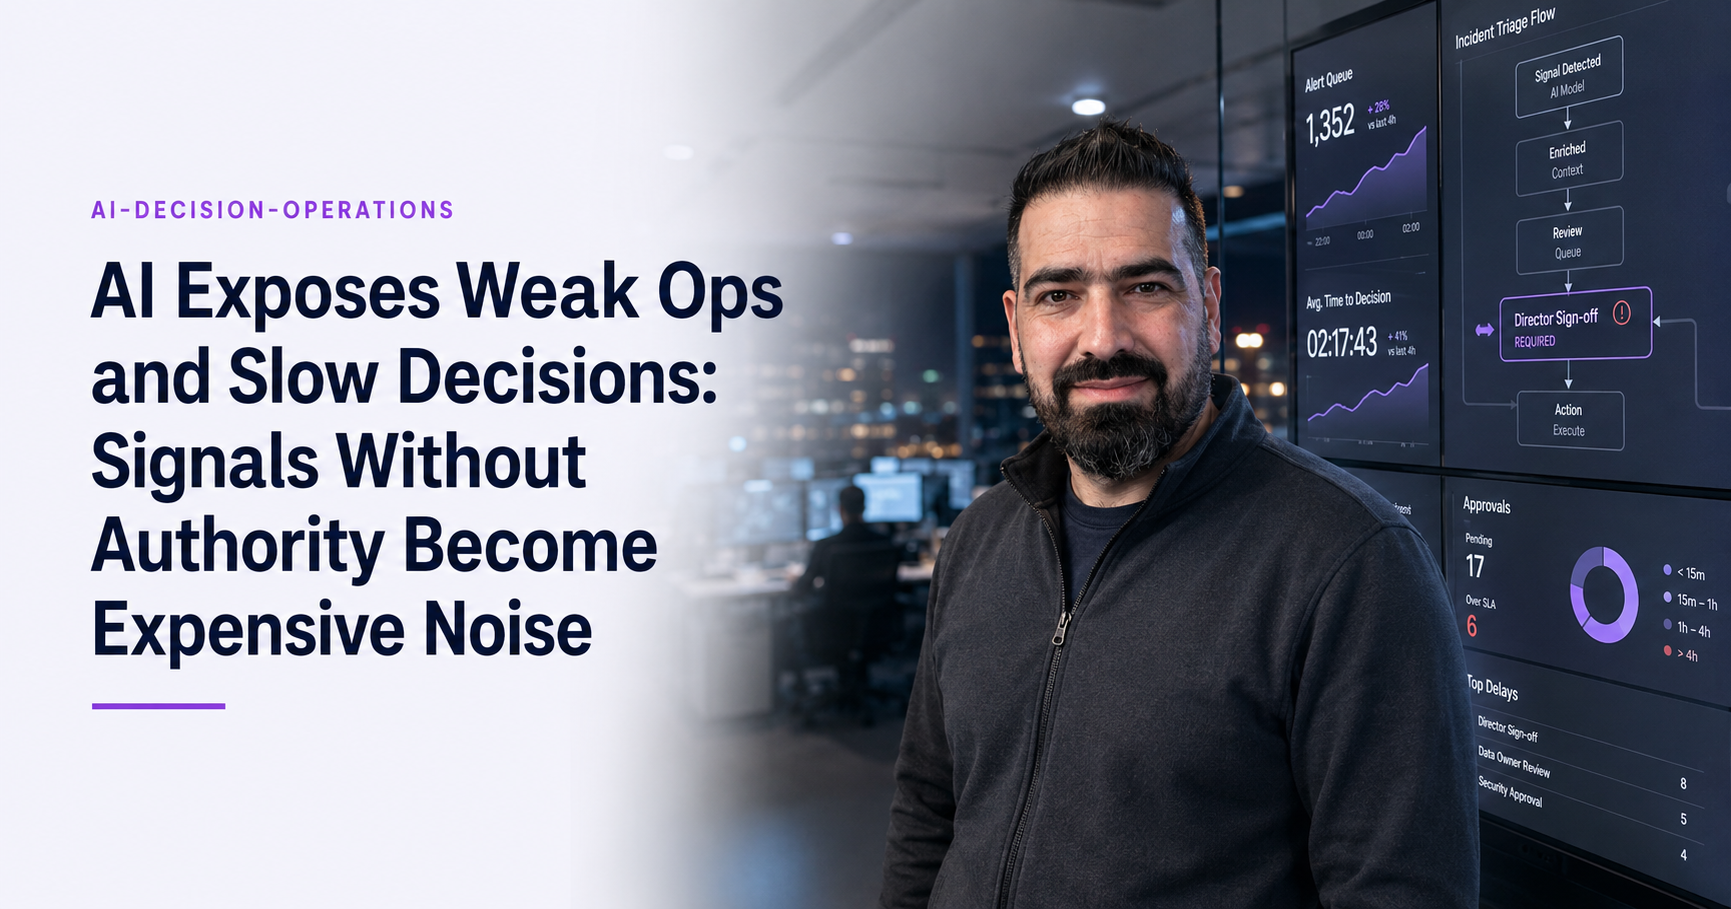
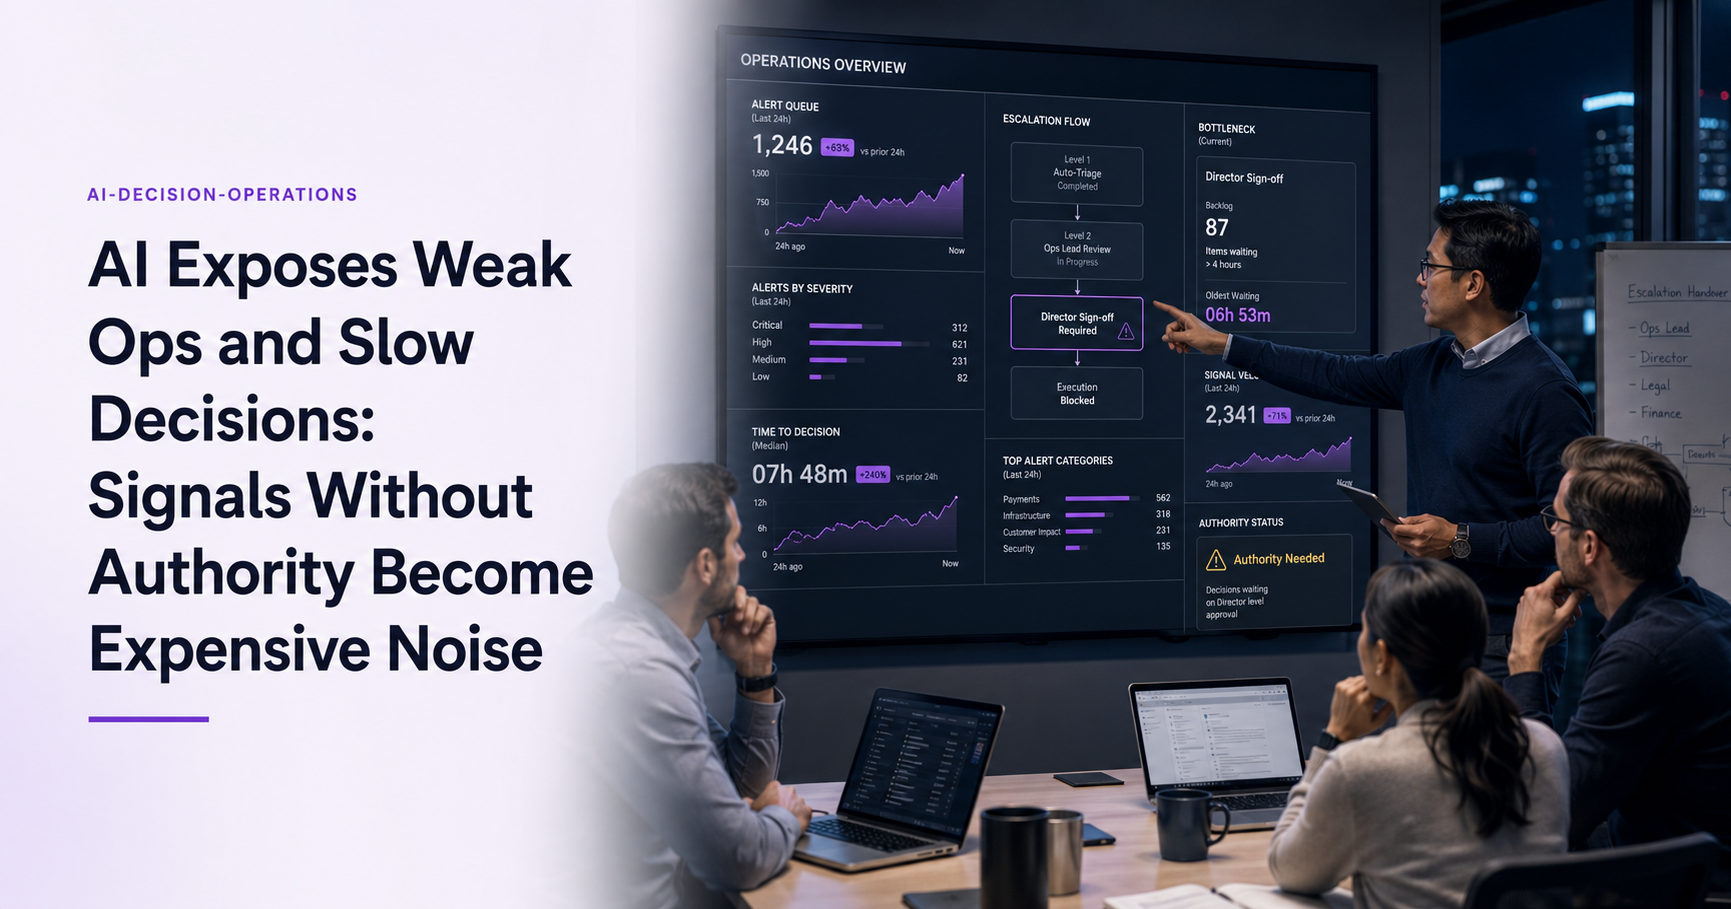
add source page of subscription

diff --git a/assets/js/admin/subscribers.js b/assets/js/admin/subscribers.js
@@ -76,9 +76,14 @@ export async function loadSubscribers() {
         { name: 'Name', sort: true },
         { name: 'Status', sort: true, formatter: (cell) => window.gridjs.html('<span class="nla-badge nla-badge-' + cell + '">' + cell + '</span>') },
         { name: 'Segments', sort: true },
+        { name: 'Page', sort: true, formatter: (cell) => {
+          if (!cell) return '—';
+          var short = cell.length > 25 ? cell.substring(0, 25) + '…' : cell;
+          return window.gridjs.html('<span title="' + escHtml(cell) + '" style="font-size:0.7rem;color:var(--text-soft)">' + escHtml(short) + '</span>');
+        }},
         { name: 'Subscribed', sort: true },
         { name: 'Actions', sort: false, formatter: (_, row) => {
-          const id = row.cells[6].data;
+          const id = row.cells[7].data;
           const email = row.cells[0].data;
           const status = row.cells[2].data;
           const deactivateBtn = status === 'active'
@@ -99,6 +104,7 @@ export async function loadSubscribers() {
         s.name || '',
         s.status,
         (s.segments || []).join(', '),
+        s.pageUrl || '',
         formatDate(s.subscribedAt),
         '',
         s.id

diff --git a/functions/newsletter/subscribe.js b/functions/newsletter/subscribe.js
@@ -254,7 +254,7 @@ const subscribeNewsletter = onRequest(
     }
 
     const body = req.body.data || req.body;
-    const { email, utm_source, name } = body;
+    const { email, utm_source, name, page_url } = body;
 
     // Validate email format
     if (!validateEmail(email)) {
@@ -347,6 +347,7 @@ const subscribeNewsletter = onRequest(
         status: "active",
         segments: segments,
         utmSource: utmSource,
+        pageUrl: page_url || "",
         unsubscribeToken: token,
         unsubscribeTokenHash: hash,
         subscribedAt: admin.firestore.FieldValue.serverTimestamp(),

diff --git a/_includes/subscribe-popup.html b/_includes/subscribe-popup.html
@@ -66,7 +66,7 @@ function closeSubscribePopup() {
     fetch(url, {
       method: 'POST',
       headers: {'Content-Type': 'application/json'},
-      body: JSON.stringify({email: email, utm_source: 'popup'})
+      body: JSON.stringify({email: email, utm_source: 'popup', page_url: window.location.pathname})
     }).then(function(res) {
       if (res.ok) {
         localStorage.setItem('sp_subscribed', '1');

diff --git a/_layouts/sproochentest-topic.html b/_layouts/sproochentest-topic.html
@@ -92,7 +92,7 @@ css:
       fetch('{{ site.data.firebase.fn_subscribe }}', {
         method: 'POST',
         headers: { 'Content-Type': 'application/json' },
-        body: JSON.stringify({ email: email, utm_source: 'sproochentest_gate' })
+        body: JSON.stringify({ email: email, utm_source: 'sproochentest_gate', page_url: window.location.pathname })
       }).then(function() { unlock(); }).catch(function() { unlock(); });
     });
   }

diff --git a/_layouts/template.html b/_layouts/template.html
@@ -120,7 +120,7 @@ function submitGateEmail(e) {
   fetch('{{ site.data.firebase.fn_subscribe }}', {
     method: 'POST',
     headers: {'Content-Type': 'application/json'},
-    body: JSON.stringify({email: email, name: name, utm_source: 'template_download'})
+    body: JSON.stringify({email: email, name: name, utm_source: 'template_download', page_url: window.location.pathname})
   }).catch(function(){});
   var f = TEMPLATE_FILE; closeGate(); triggerFile(f);
 }

diff --git a/assets/js/custom-script.js b/assets/js/custom-script.js
@@ -16,7 +16,7 @@ function handleNewsletterSubscribe(e, form, source) {
   fetch(url, {
     method: 'POST',
     headers: {'Content-Type': 'application/json'},
-    body: JSON.stringify({email: email, utm_source: source || 'website'})
+    body: JSON.stringify({email: email, utm_source: source || 'website', page_url: window.location.pathname})
   }).then(function(res) {
     if (res.ok) {
       msg.style.display = 'block';

diff --git a/sproochentest-materials/materials.html b/sproochentest-materials/materials.html
@@ -264,7 +264,7 @@ function submitDownloadEmail(e) {
   fetch('{{ site.data.firebase.fn_subscribe }}', {
     method: 'POST',
     headers: {'Content-Type': 'application/json'},
-    body: JSON.stringify({email: email, name: name, utm_source: 'materials_download'})
+    body: JSON.stringify({email: email, name: name, utm_source: 'materials_download', page_url: window.location.pathname})
   }).catch(function(){});
 
   // Trigger download with email explicitly passed

diff --git a/functions/newsletter/manage.js b/functions/newsletter/manage.js
@@ -81,6 +81,7 @@ async function handleList(req, res) {
         status: data.status,
         segments: data.segments || [],
         utmSource: data.utmSource || "",
+        pageUrl: data.pageUrl || "",
         subscribedAt: data.subscribedAt ? data.subscribedAt.toDate().toISOString() : null,
       };
     });